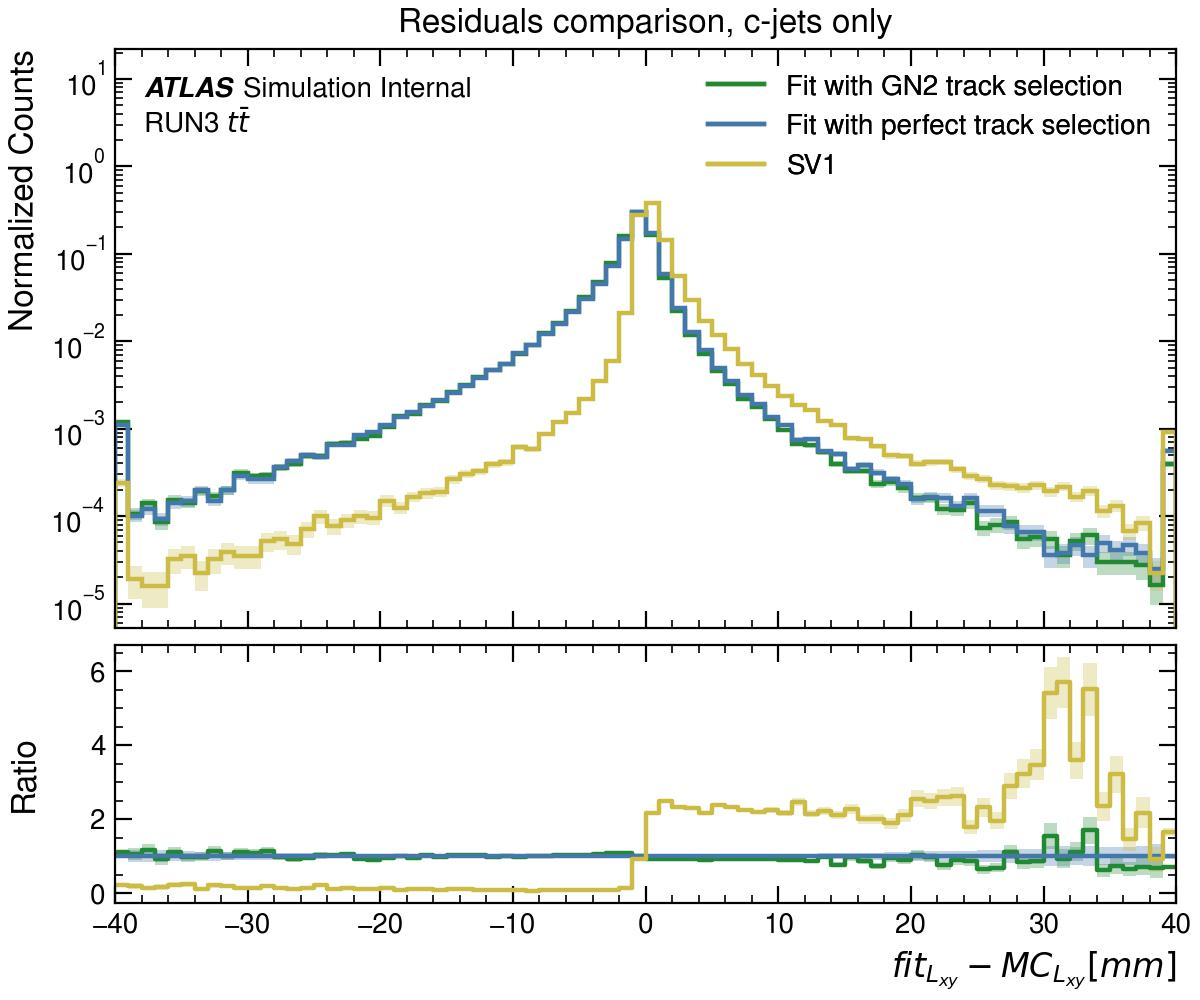
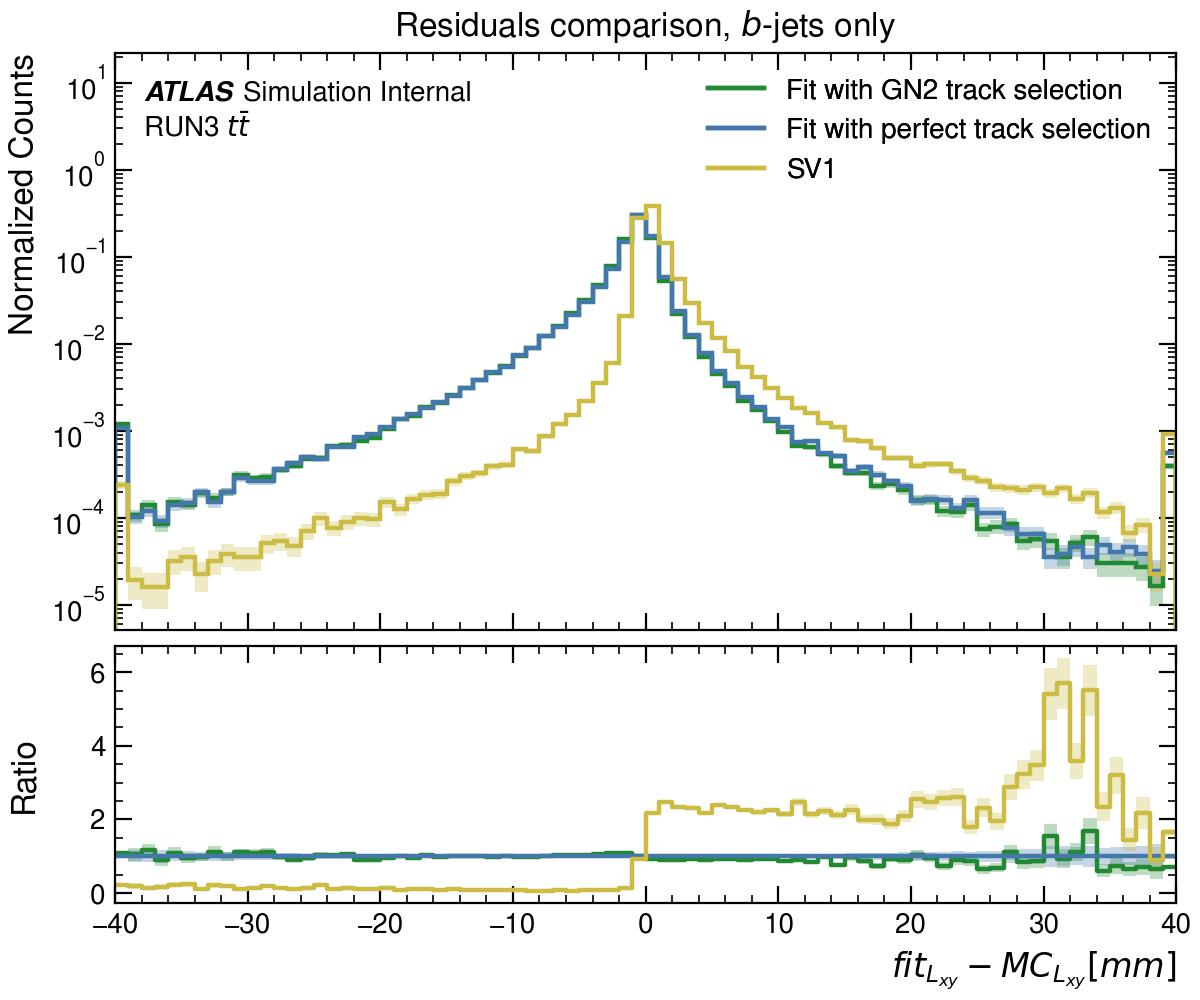
Fixed an error in the plots titles

diff --git a/plots.py b/plots.py
@@ -155,7 +155,7 @@ if __name__ == "__main__":
         perfect_tracksel_Lxy,
         SV1_Lxy,
         MCtruth_Lxy,
-        title=r"$L_{xy}$ comparison, b/c-jets",
+        title=r"$L_{xy}$ comparison, $b/c$-jets",
         filename="LxyComparison_inclusive.jpg",
     )
     plot_residuals_comparison(
@@ -163,13 +163,13 @@ if __name__ == "__main__":
         perfect_tracksel_Lxy,
         SV1_Lxy,
         MCtruth_Lxy,
-        title=r"Residuals comparison, b/c-jets",
+        title=r"Residuals comparison, $b/c$-jets",
         filename="ResidualsComparison_inclusive.jpg",
     )
     plot_chi2_comparison(
         perfect_tracksel_chi2,
         GN2_chi2,
-        title=r"$\chi^2$ comparison, b/c-jets",
+        title=r"$\chi^2$ comparison, $b/c$-jets",
         filename="chi2_inclusive.jpg",
     )
 
@@ -187,7 +187,7 @@ if __name__ == "__main__":
         perfect_tracksel_Lxy_cjets,
         SV1_Lxy_cjets,
         MCtruth_Lxy_cjets,
-        title=r"$L_{xy}$ comparison, c-jets only",
+        title=r"$L_{xy}$ comparison, $c$-jets only",
         filename="LxyComparison_cjets.jpg",
     )
     plot_residuals_comparison(
@@ -195,13 +195,13 @@ if __name__ == "__main__":
         perfect_tracksel_Lxy_cjets,
         SV1_Lxy_cjets,
         MCtruth_Lxy_cjets,
-        title=r"Residuals comparison, c-jets only",
+        title=r"Residuals comparison, $c$-jets only",
         filename="ResidualsComparison_cjets.jpg",
     )
     plot_chi2_comparison(
         perfect_tracksel_chi2_cjets,
         GN2_chi2_cjets,
-        title=r"$\chi^2$ comparison, c-jets only",
+        title=r"$\chi^2$ comparison, $c$-jets only",
         filename="chi2_cjets.jpg",
     )
 
@@ -219,7 +219,7 @@ if __name__ == "__main__":
         perfect_tracksel_Lxy_bjets,
         SV1_Lxy_bjets,
         MCtruth_Lxy_bjets,
-        title=r"$L_{xy}$ comparison, c-jets only",
+        title=r"$L_{xy}$ comparison, $b$-jets only",
         filename="LxyComparison_bjets.jpg",
     )
     plot_residuals_comparison(
@@ -227,12 +227,12 @@ if __name__ == "__main__":
         perfect_tracksel_Lxy_bjets,
         SV1_Lxy_bjets,
         MCtruth_Lxy_bjets,
-        title=r"Residuals comparison, c-jets only",
+        title=r"Residuals comparison, $b$-jets only",
         filename="ResidualsComparison_bjets.jpg",
     )
     plot_chi2_comparison(
         perfect_tracksel_chi2_bjets,
         GN2_chi2_bjets,
-        title=r"$\chi^2$ comparison, b-jets only",
+        title=r"$\chi^2$ comparison, $b$-jets only",
         filename="chi2_bjets.jpg",
     )

diff --git a/README.md b/README.md
@@ -1,6 +1,6 @@
 # Vertex Fit with GN2's track origin predictions
 
-The code in this repository produces the $L_{xy}$ comparison between the vertex fitting performed with GN2's track selection or with "perfect track selection" (i.e. using the Montecarlo truth track origins to select which tracks are to be fitted). Results can be found in `images`. Here is the result of the comparison on $b/c-$ jets:
+The code in this repository produces the $L_{xy}$ comparison between the vertex fitting performed with GN2's track selection v.s. with "perfect track selection" (i.e. using the Montecarlo truth track origins to select which tracks are to be fitted). Results can be found in `images`. Here is the result of the comparison on $b/c-$ jets:
 <center>
 <img src="./images/LxyComparison_inclusive.jpg" alt="drawing" width="700"/>
 </center>
